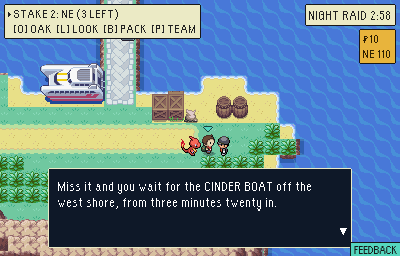
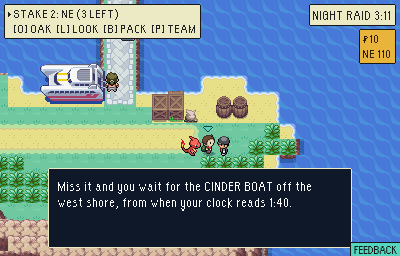
Pictures of the lookout's clock readings

diff --git a/docs/screens/ember-lookout/README.md b/docs/screens/ember-lookout/README.md
@@ -1,8 +1,8 @@
-# EMBER ISLE's lookout says when the skiff stops, counted from the raid's start
+# EMBER ISLE's lookout says when the skiff stops, on the raid clock
 
-The lookout by SMUGGLERS' LANDING said "The skiff runs back to the cove till our boat sails. Half past two, and not a minute after. Miss it and you are here till the burners go." On a night raid ("NIGHT RAID" in the corner) "half past two" reads as a time of day. As a clock reading it would only be right for a full 5:00 raid: sailings run by time since the raid began, and a raid shortened by a heal never shows 2:30 at that moment. "Our boat" and "the burners" left the way off the island unnamed.
+The lookout by SMUGGLERS' LANDING said "The skiff runs back to the cove till our boat sails. Half past two, and not a minute after. Miss it and you are here till the burners go." On a night raid ("NIGHT RAID" in the corner) "half past two" reads as a time of day, and "our boat" and "the burners" left the way off the island unnamed.
 
-Now: "The skiff runs back to the cove until two and a half minutes into the raid, and not a second after." and "Miss it and you wait for the CINDER BOAT off the west shore, from three minutes twenty in." (The skiff sails until 150 s; the Cinder Boat exit opens after 200 s.)
+Now: "The skiff runs back to the cove until your clock reads 2:30, and not a second after." and "Miss it and you wait for the CINDER BOAT off the west shore, from when your clock reads 1:40." The readings hold in a raid shortened by a heal as well: a sailing is timed against the clock as drawn (`WorldScene.tideMs`), and a timed exit is moved by the same shortfall (`authoredTimeIn`). In a 4:00 raid the skiff was already sailing on arrival at the jetty, as it is from 4:00 on in a full one.
 
 | Before | After |
 |---|---|
